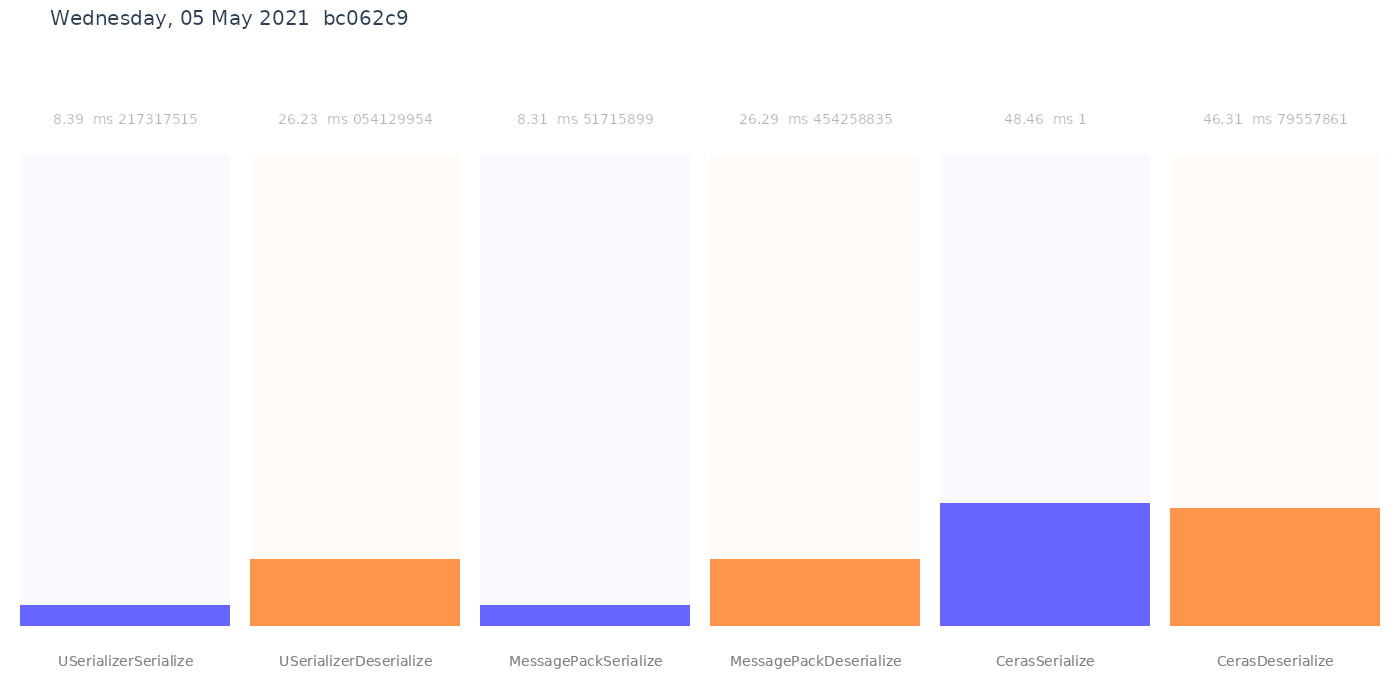
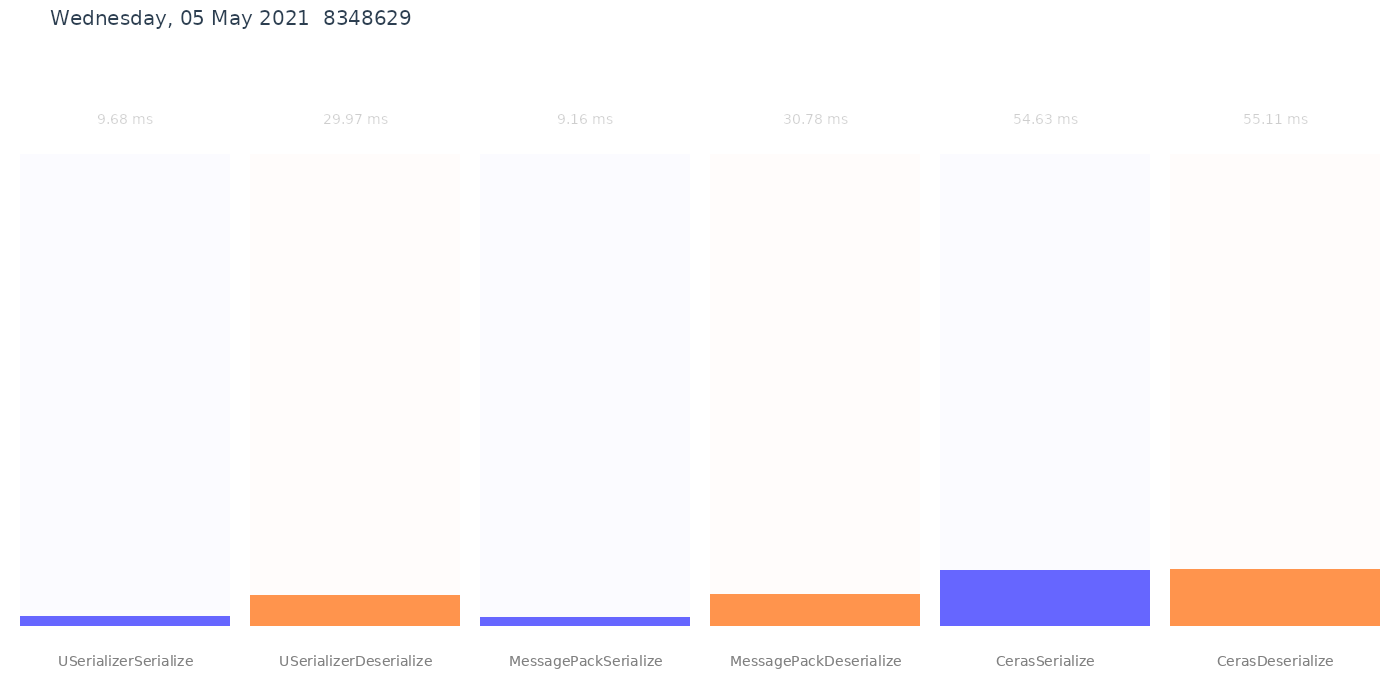
deploy: 8348629e73c35a7cd5d76ab5e939fc1be3fcd2ff

diff --git a/performance.md b/performance.md
@@ -1,7 +1,7 @@
 ``` ini
 
 BenchmarkDotNet=v0.12.1, OS=ubuntu 20.04
-Intel Xeon Platinum 8171M CPU 2.60GHz, 1 CPU, 2 logical and 2 physical cores
+Intel Xeon CPU E5-2673 v3 2.40GHz, 1 CPU, 2 logical and 2 physical cores
 .NET Core SDK=5.0.202
   [Host]   : .NET Core 5.0.5 (CoreCLR 5.0.521.16609, CoreFX 5.0.521.16609), X64 RyuJIT
   ShortRun : .NET Core 5.0.5 (CoreCLR 5.0.521.16609, CoreFX 5.0.521.16609), X64 RyuJIT
@@ -12,9 +12,9 @@ WarmupCount=3
 ```
 |                 Method |      Mean |     Error |    StdDev |
 |----------------------- |----------:|----------:|----------:|
-|   USerializerSerialize |  8.392 ms |  2.090 ms | 0.1145 ms |
-| USerializerDeserialize | 26.231 ms |  8.086 ms | 0.4432 ms |
-|   MessagePackSerialize |  8.315 ms |  4.345 ms | 0.2382 ms |
-| MessagePackDeserialize | 26.294 ms | 14.346 ms | 0.7864 ms |
-|         CerasSerialize | 48.460 ms |  3.044 ms | 0.1668 ms |
-|       CerasDeserialize | 46.317 ms | 15.815 ms | 0.8669 ms |
+|   USerializerSerialize |  9.677 ms |  1.813 ms | 0.0994 ms |
+| USerializerDeserialize | 29.971 ms | 15.060 ms | 0.8255 ms |
+|   MessagePackSerialize |  9.162 ms |  1.578 ms | 0.0865 ms |
+| MessagePackDeserialize | 30.780 ms |  4.021 ms | 0.2204 ms |
+|         CerasSerialize | 54.630 ms | 12.951 ms | 0.7099 ms |
+|       CerasDeserialize | 55.110 ms | 32.183 ms | 1.7640 ms |
